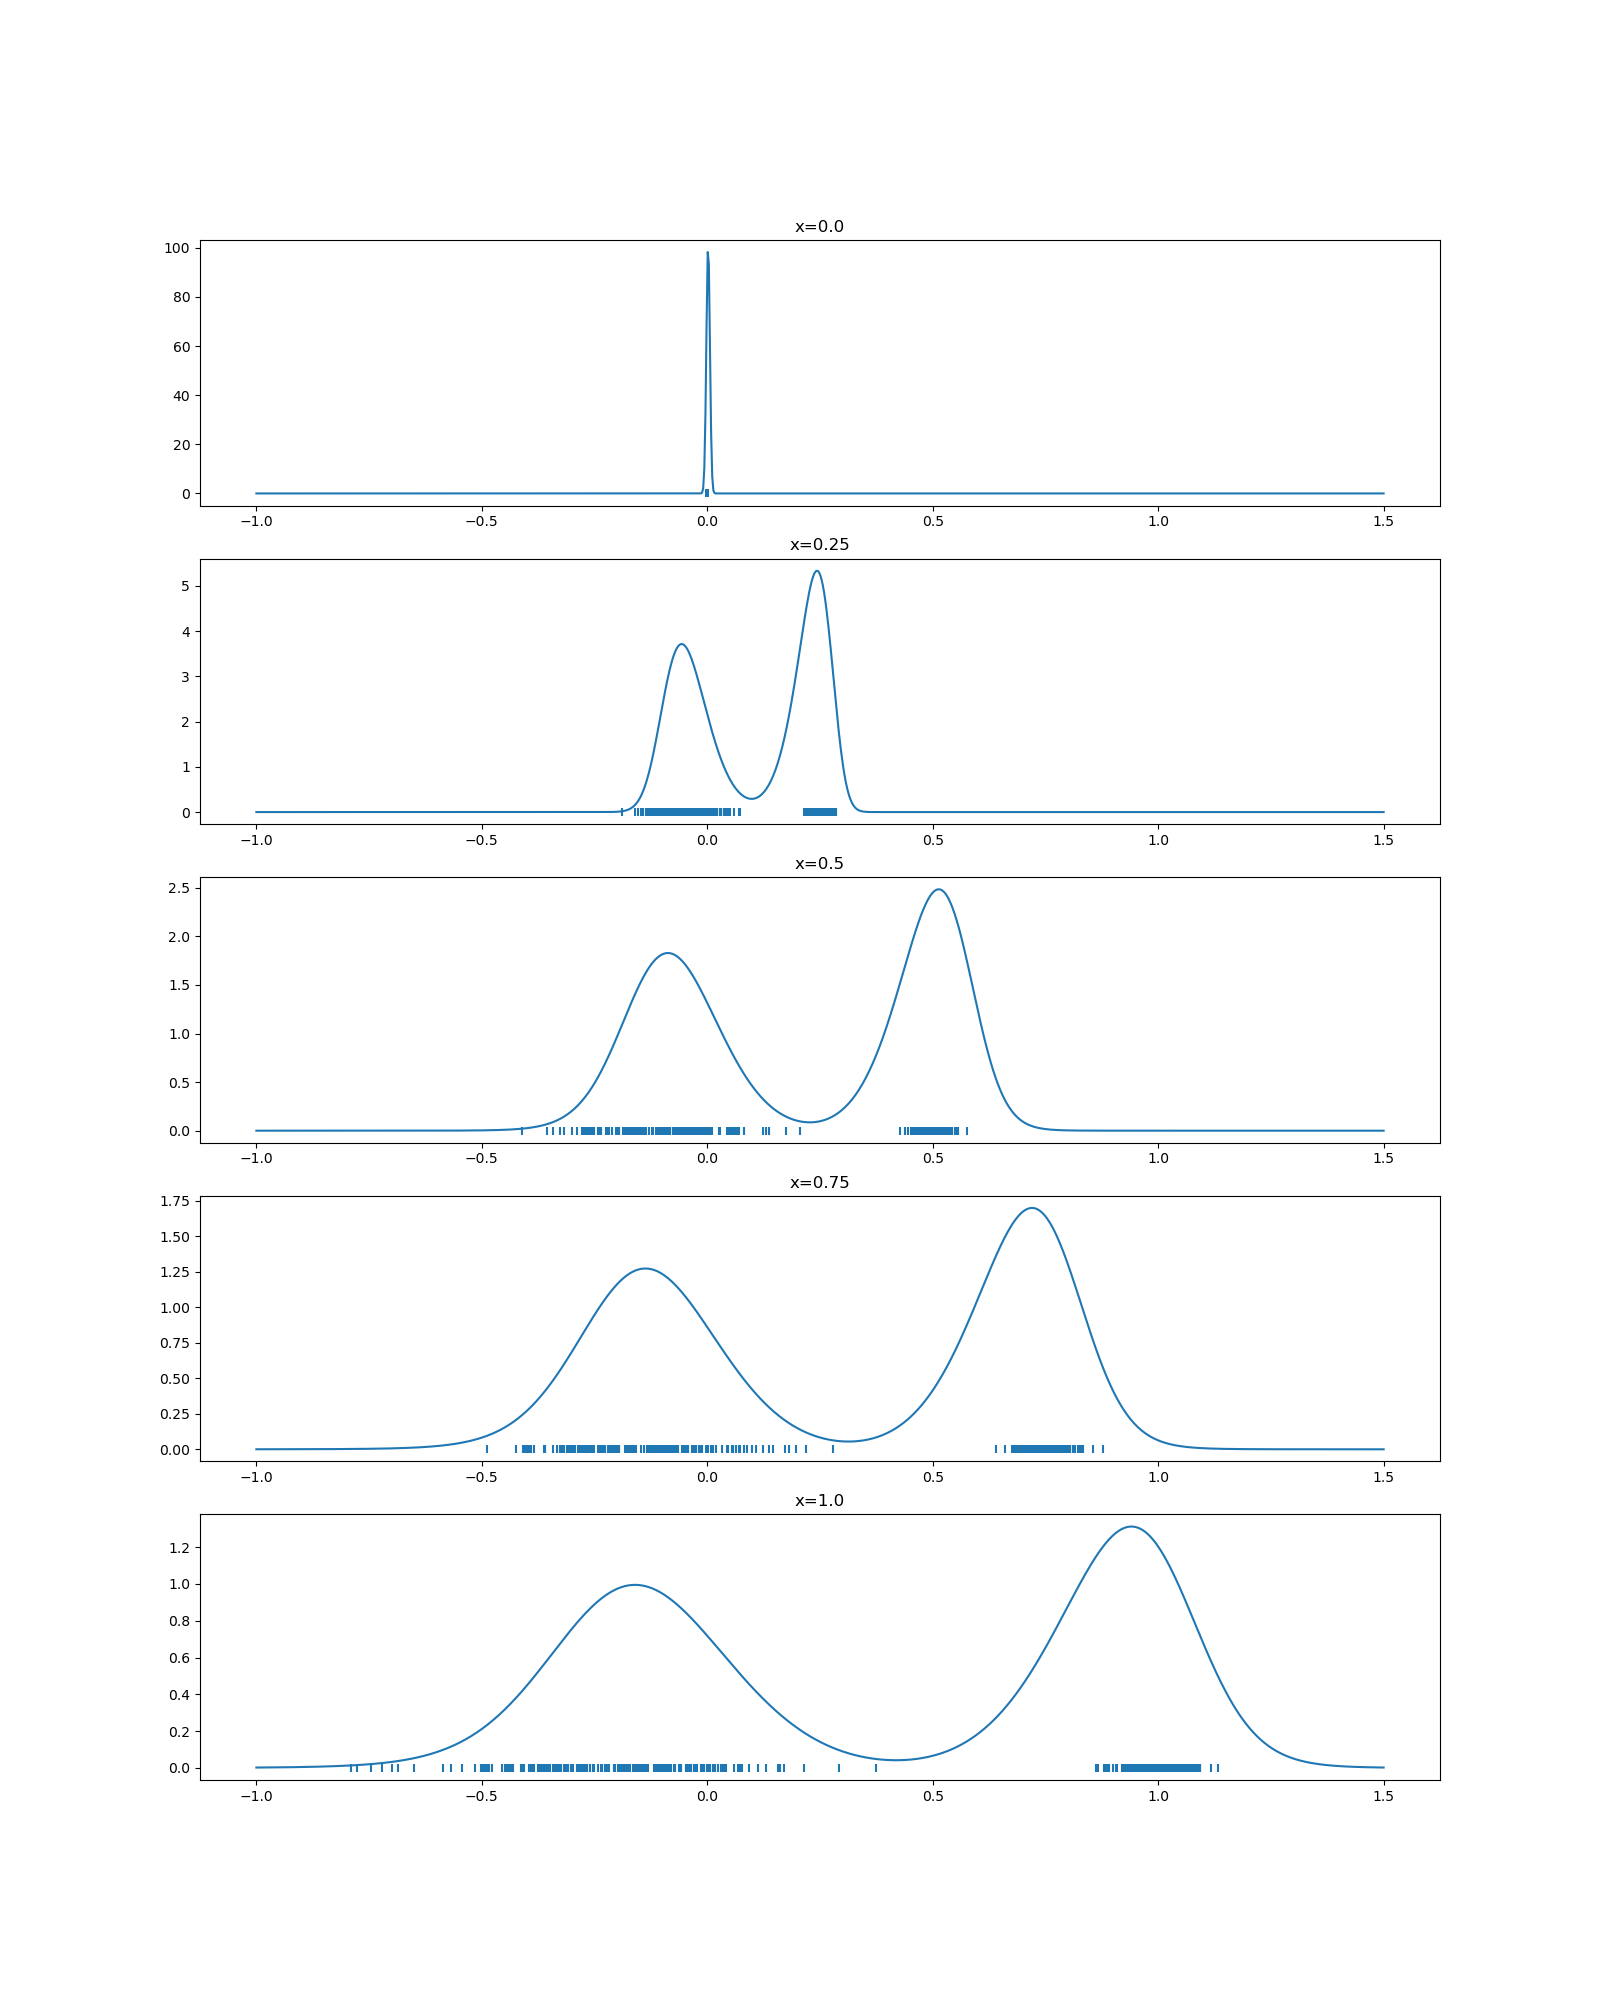
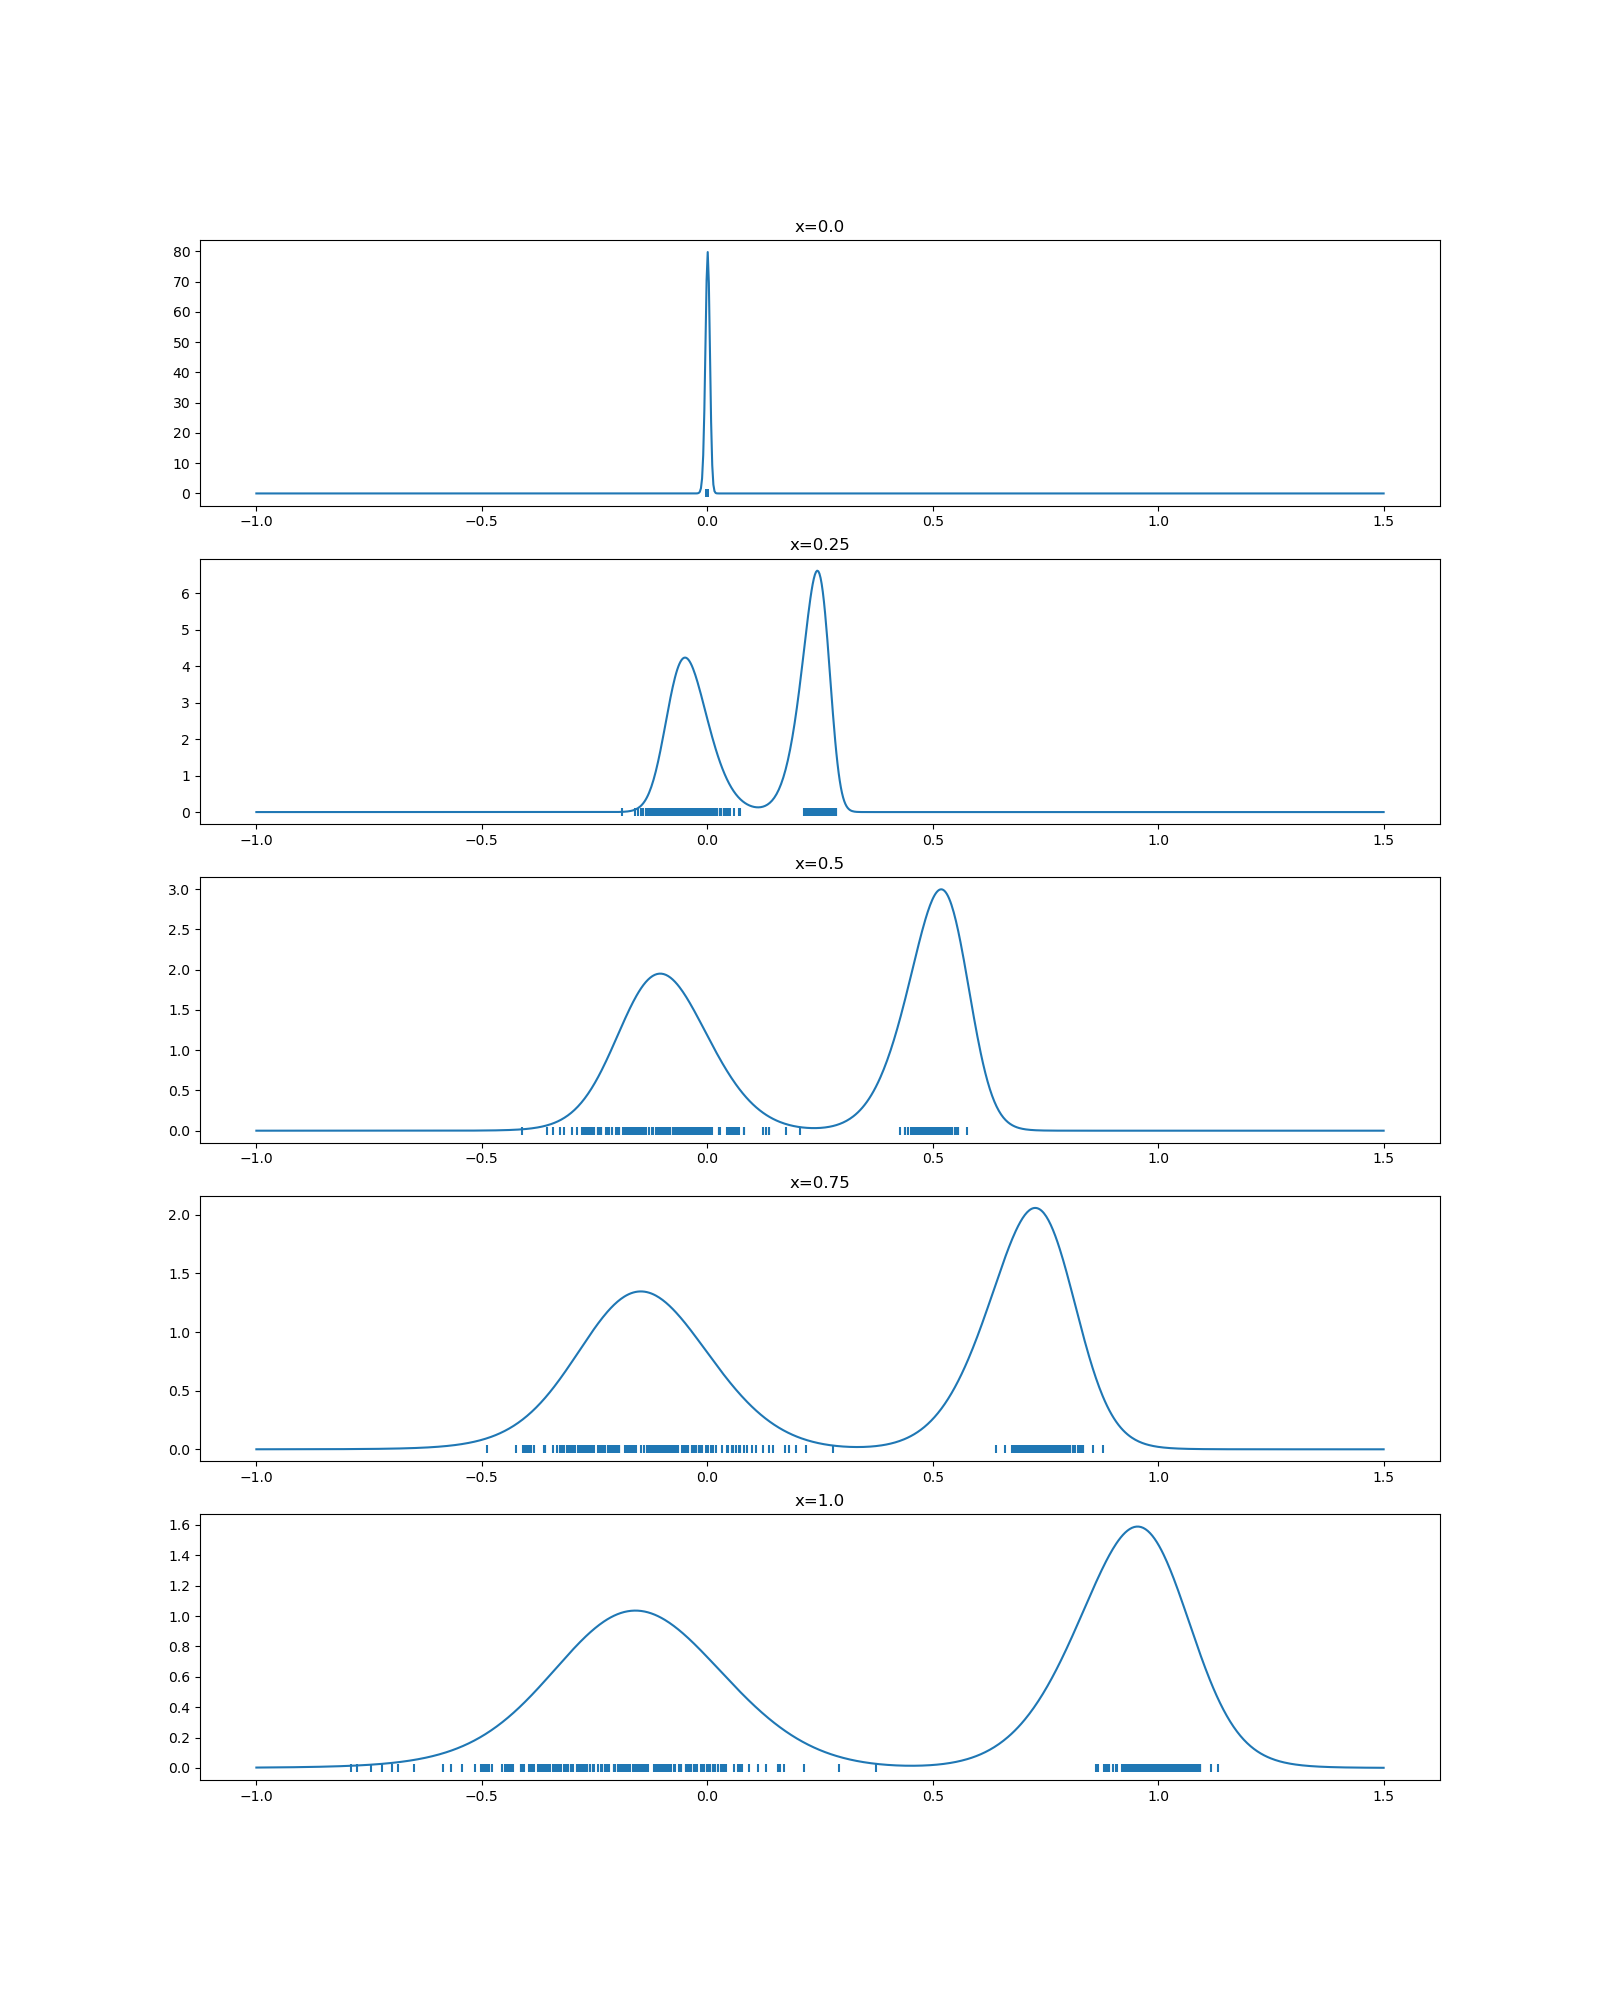
constrains dists scale between 1 and 2; reduces number of ops for theta constrains

diff --git a/src/bernstein_flow/distributions/bernstein_flow.py b/src/bernstein_flow/distributions/bernstein_flow.py
@@ -85,7 +85,7 @@ class BernsteinFlow(tfd.TransformedDistribution):
             if base_distribution is None:
                 base_distribution = tfd.Normal(loc=tf.zeros(batch_shape), scale=1.0)
 
-            tol = 1e-5
+            tol = 1e-4
             if base_dist_lower_bound is None:
                 self.lower_bound = tf.reshape(
                     base_distribution.quantile(tol), tf.concat((batch_shape, [1]), 0)
@@ -172,12 +172,14 @@ class BernsteinFlow(tfd.TransformedDistribution):
         else:
             a1, b1, theta = pv
 
-        def conatrain_scale(scale, low):
-            scale = tf.math.softplus(scale) + low
+        def conatrain_dist_scale(scale, low, high):
+            scale = (high-low) * tf.math.sigmoid(scale) + low
             return scale
 
+        min_dist_scale = 1.0
+        max_dist_scale = 2.0
         if scale_base_distribution:
-            scale = conatrain_scale(a2, 1.0)[..., None]
+            scale = conatrain_dist_scale(a2, min_dist_scale, max_dist_scale)[..., None]
         else:
             scale = 1.0
 
@@ -186,7 +188,7 @@ class BernsteinFlow(tfd.TransformedDistribution):
         )
 
         # f1: ŷ = sigma(a1(x)*y - b1(x))
-        f1_scale = tfb.Scale(conatrain_scale(a1, 1e-5), name="f1_scale")
+        f1_scale = tfb.Scale(tf.math.softplus(a1) + 0.1, name="f1_scale")
         bijectors.append(f1_scale)
         f1_shift = tfb.Shift(b1, name="f1_shift")
         bijectors.append(f1_shift)
@@ -200,7 +202,7 @@ class BernsteinFlow(tfd.TransformedDistribution):
 
         # f3: z = a2(x)*ẑ - b2(x)
         if scale_base_distribution:
-            f3_scale = tfb.Scale(conatrain_scale(a2, 1.0), name="f3_scale")
+            f3_scale = tfb.Scale(conatrain_dist_scale(a2, min_dist_scale, max_dist_scale), name="f3_scale")
             bijectors.append(f3_scale)
 
         bijectors = list(reversed(bijectors))

diff --git a/src/bernstein_flow/bijectors/bernstein_bijector.py b/src/bernstein_flow/bijectors/bernstein_bijector.py
@@ -217,18 +217,18 @@ class BernsteinBijector(tfb.Bijector):
         :returns:   The constrained Bernstein coefficients.
         :rtype:     Tensor
         """
-        d = tf.concat(
+        eps = 1e-4
+        d = 5 * fn(theta_unconstrained) + eps
+        d /= tf.reduce_sum(d, axis=-1)[..., None]
+        d *= high - low
+        tc = tf.concat(
             (
-                tf.zeros_like(theta_unconstrained[..., :1]),
-                fn(theta_unconstrained) + 1e-4,
+                low * tf.ones_like(theta_unconstrained[..., :1]),
+                d,
             ),
             axis=-1,
         )
-        tc = tf.cumsum(d[..., 1:], axis=-1)
-        tmax = tf.reduce_max(tc, axis=-1)[..., None]
-        tmin = tf.reduce_min(tc, axis=-1)[..., None]
-        tc = (tc - tmin) / (tmax - tmin)
-        return (high - low) * tc + low
+        return tf.cumsum(tc, axis=-1)
 
     def _is_increasing(self, **kwargs):
         return tf.reduce_all(self.theta[..., 1:] >= self.theta[..., :-1])
